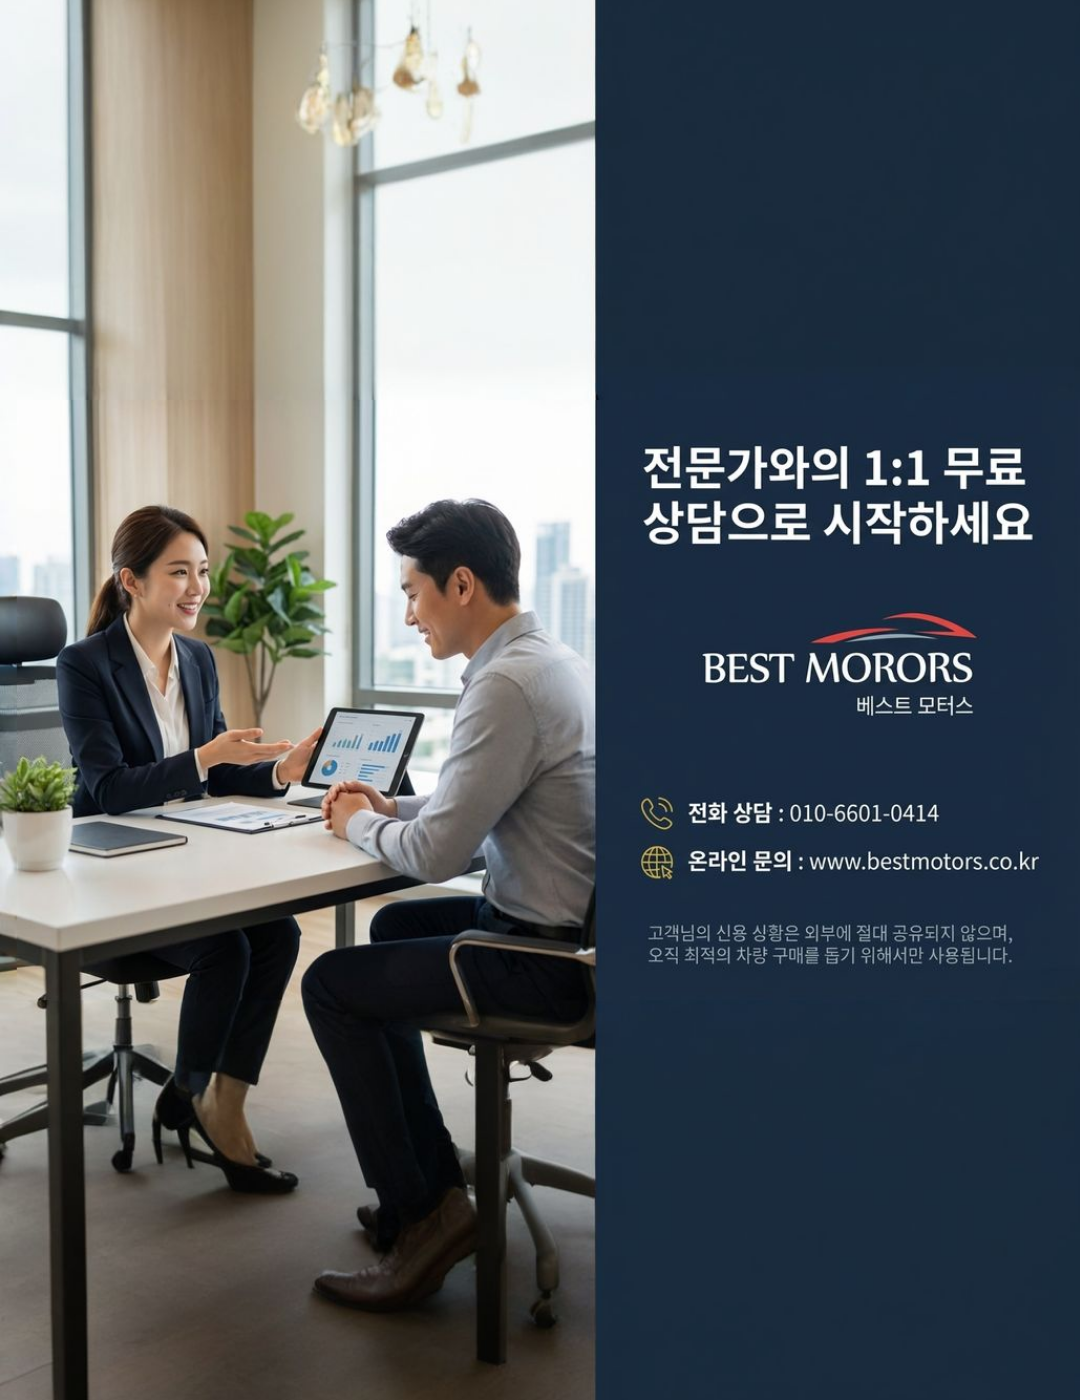
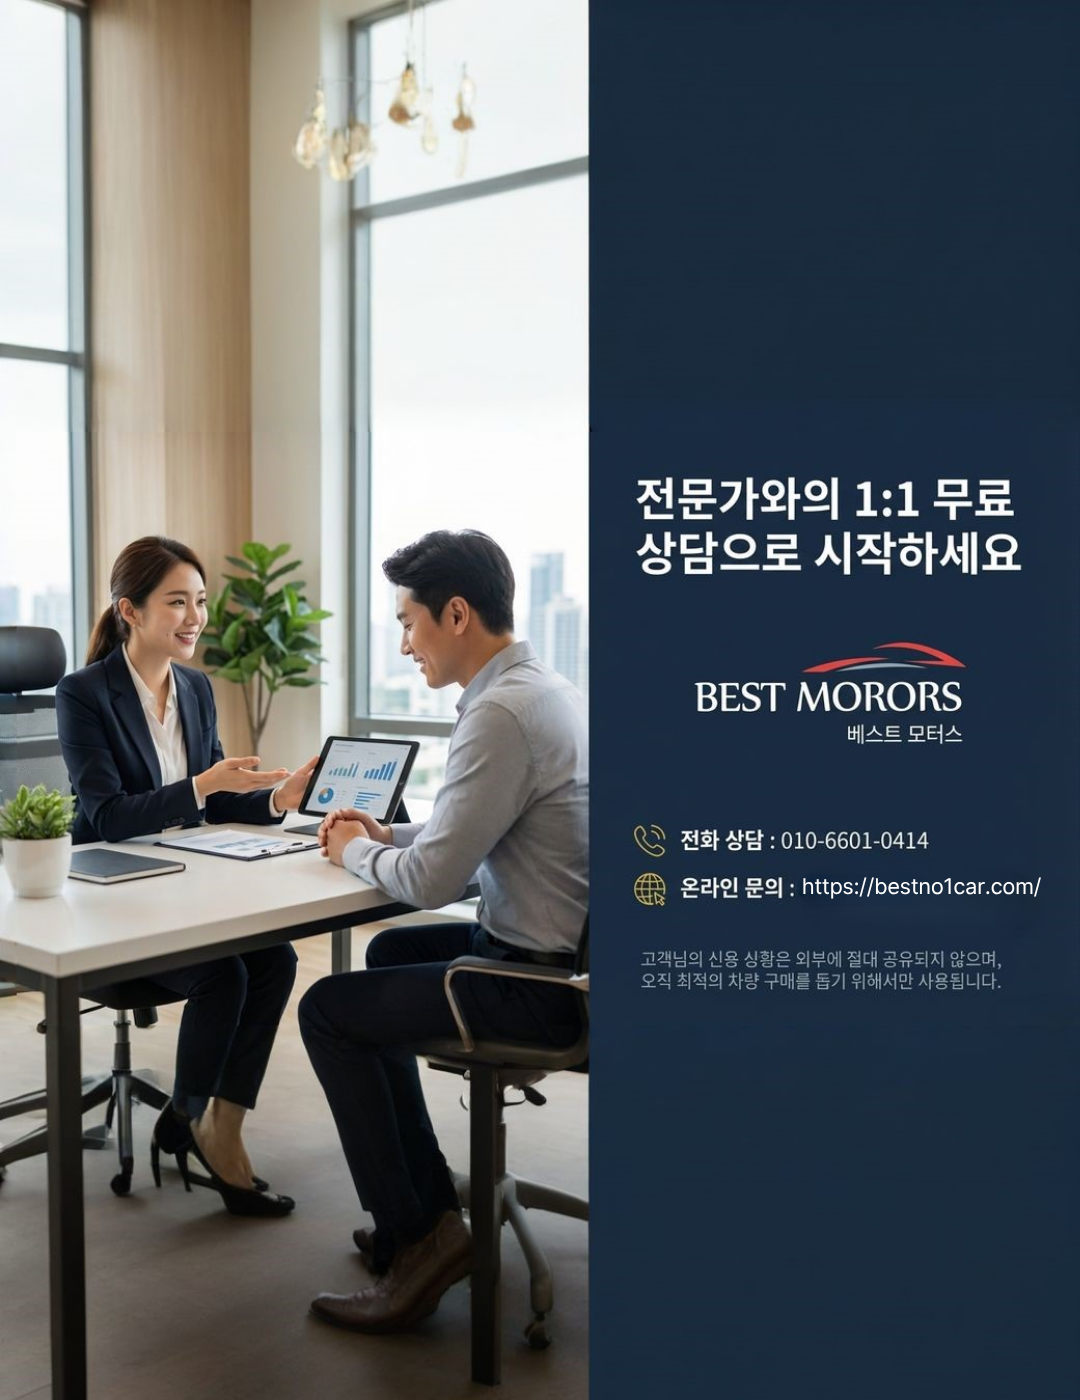
s

Changed region(s): [[0.0, 0.0, 0.55, 1.0], [0.5806, 0.3071, 0.9778, 0.7064]]

diff --git a/index.html b/index.html
@@ -47,7 +47,7 @@
       "url": "https://best-motos.pages.dev",
       "logo": "https://best-motos.pages.dev/best-logo.png",
       "image": "https://best-motos.pages.dev/best-logo.png",
-      "telephone": "02-1234-5678",
+      "telephone": "010-6601-0414",
       "address": {
         "@type": "PostalAddress",
         "addressCountry": "KR"
@@ -311,7 +311,7 @@
                     <h2>베스트 모터스</h2>
                     <p>중고차 판매 및 장기렌트 전문</p>
                     <address>
-                        <p>전화: <a href="tel:02-1234-5678">02-1234-5678</a></p>
+                        <p>전화: <a href="tel:010-6601-0414">010-6601-0414</a></p>
                         <p>카카오톡: <a href="https://pf.kakao.com/_yourkakao" target="_blank" rel="noopener noreferrer">상담하기</a></p>
                     </address>
                     <p>© 2024 베스트 모터스. All rights reserved.</p>
@@ -382,7 +382,7 @@
                 <path d="M18 15l-6-6-6 6"/>
             </svg>
         </button>
-        <a href="tel:02-1234-5678" class="floating-btn phone-btn" title="전화하기">
+        <a href="tel:010-6601-0414" class="floating-btn phone-btn" title="전화하기">
             <svg width="24" height="24" viewBox="0 0 24 24" fill="none" stroke="currentColor" stroke-width="2">
                 <path d="M22 16.92v3a2 2 0 0 1-2.18 2 19.79 19.79 0 0 1-8.63-3.07 19.5 19.5 0 0 1-6-6 19.79 19.79 0 0 1-3.07-8.67A2 2 0 0 1 4.11 2h3a2 2 0 0 1 2 1.72 12.84 12.84 0 0 0 .7 2.81 2 2 0 0 1-.45 2.11L8.09 9.91a16 16 0 0 0 6 6l1.27-1.27a2 2 0 0 1 2.11-.45 12.84 12.84 0 0 0 2.81.7A2 2 0 0 1 22 16.92z"/>
             </svg>
